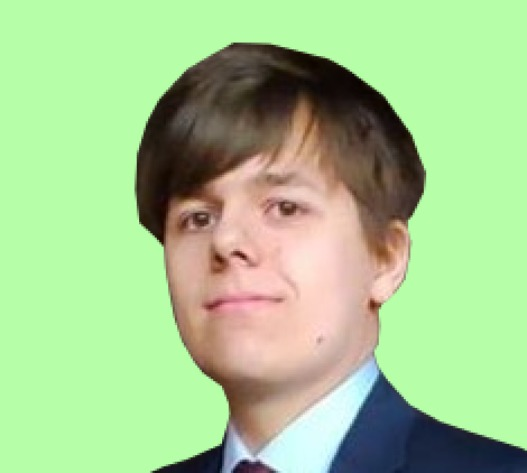
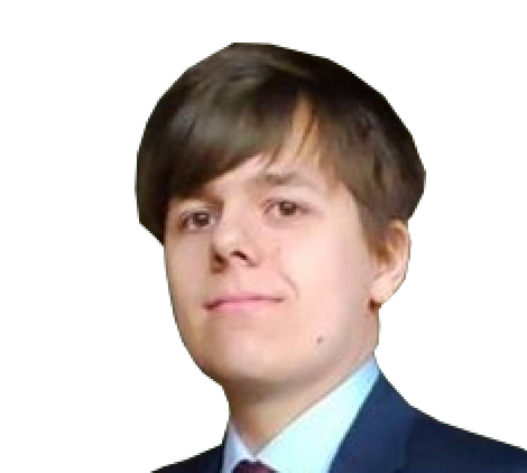
Updated with new changes of background

diff --git a/js/team.js b/js/team.js
@@ -144,10 +144,16 @@ const team = [
     github: "abdrahmandiab",
   },
   {
-    image: "../img/logos/ivy_logo_only.png",
+    image: "../img/team/Saeed.png",
     name: "Saeed Ashraf",
     bio: "GUC graduate with a degree in Computer Science and Engineering. A programmer who does not run on coffee but enjoys experiencing life and learning in an attempt to make the world a little better. ",
     github: "saeedashrraf",
+  },
+  {
+    image: "../img/team/dan.png",
+    name: "Daniel Lenton",
+    bio: "",
+    github: "djl11",
   },
 ];
 

diff --git a/css/team.css b/css/team.css
@@ -35,13 +35,11 @@
   width: 150px;
   height: 150px;
   border-radius: 50%;
+  background-color: rgba(200, 235, 200, 1.0);
 }
 
 #team_content .name-text {
-  /* font-size: 1.5em; */
   font-weight: 700;
-  /* margin-top: 10px; */
-  color: #009600;
 }
 
 #team_content .image-line {
